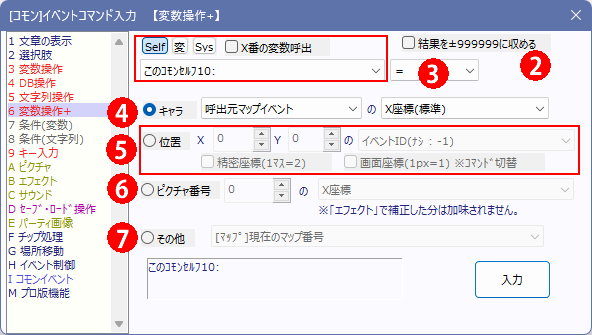
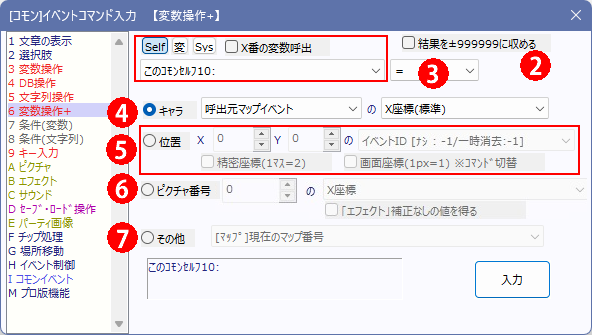
file upload

Changed region(s): [[0.4561, 0.5373, 0.8818, 0.6567], [0.6081, 0.3881, 0.8818, 0.4478], [0.3649, 0.5373, 0.3953, 0.597]]

diff --git a/ReleaseLog.html b/ReleaseLog.html
@@ -304,6 +304,100 @@ A:hover.newstxA,A:active.newstxA{
       <br>
       <br>
       <hr size="1" noshade>
+      <span style="font-size : 120%;"><b>【Ver3.705のアップデート内容】</b></span>　2026/6/5　 <a href="#top" class="green" style="width:200px;">↑トップへ</a><br>
+      <br>
+      <b><span style="font-size : 120%;"><br>
+      【ゲーム部の修正】</span></b><br>
+<br>
+●【F7ピクチャ一覧画面/不具合】<br>
+      　右側のピクチャ表示位置の赤マーカー（エフェクト後の座標）の<br>
+      　表示位置が状況によって正しくなくなっていたバグを修正<br>
+<br>
+●【F7ピクチャ一覧画面/調整】<br>
+・右側のピクチャ表示位置の、「エフェクト前の位置」を薄い青で表示するように<br>
+・右側のピクチャ表示位置のマーカーが回転にも対応<br>
+　（これまでは回転なしの四角でしか表示されていませんでした）<br>
+      　　↓<br>
+      　<b>【最新のF7ピクチャ一覧表示】</b> <span style="font-size : 80%;">（下側のID:5が通常ピクチャですが斜め表示されています。青マーカーは元位置、赤は実位置）</span><br>
+      　<img src="old_releaselog/image/20260605_F7.jpg" border="0"><br>
+      <br>
+      <hr size="1" noshade>
+      <span style="font-size : 120%;"><b>【Ver3.704のアップデート内容】</b></span>　2026/6/5　 <a href="#top" class="green" style="width:200px;">↑トップへ</a><br>
+      <br>
+      <b><span style="font-size : 120%;"><br>
+      【新機能】</span></b><br>
+<br>
+      <b><span style="color : #cc0000;">●【変数操作+/新機能】<br>
+      　「変数操作+」での「ピクチャ」情報取得時、【エフェクトで補正された後】の<br>
+      　「XY座標」や「パターン」「不透明度」「角度」「拡大率」「カラーRGB値」<br>
+      　を得られるようになります。</span></b><br>
+      <br>
+      → ウィンドウ側には<b><span style="color : #cc0000;">【「エフェクト」補正なしの値を得る】</span></b>チェックを追加しました。<br>
+      　今後はデフォルトで「エフェクト補正後の値」を取得するようになります。<br>
+      <br>
+      → これまで入力されたコマンドは全て<b>【「エフェクト」補正なしの値を得る】</b>モードで<br>
+　 値を取得していたものとして扱われます。<br>
+      　 すでに開発済みのゲームに対して挙動の変化は起きませんのでご安心ください。<br>
+      <br>
+      →【従来はどうなっていたのか】<br>
+　 これまで得られていたピクチャの値には「エフェクトの補正」が含まれておらず、<br>
+　「ピクチャ」コマンドで指定した「生の値」だけを得られる状態になっていました。<br>
+      　さすがにそれだと不便でしたので、今回の修正でエフェクト込みの値を標準にしました。<br>
+<br>
+<br>
+      <b><span style="font-size : 120%;"><br>
+      【ゲーム部の修正】</span></b><br>
+<br>
+●【パフォーマンスモニター/不具合】<br>
+　「PerformanceMonitor」機能使用時、特定の処理を行うと<br>
+　クラッシュすることがあったバグを修正<br>
+<br>
+●【F7ピクチャ一覧画面/調整】<br>
+　「表示形式(通常・乗算など)」「ｶﾗｰRPG」「分割」「パターン」の情報を追加。<br>
+　<br>
+●【F7ピクチャ一覧画面/調整】<br>
+　ピクチャ位置を示す赤マーカーボックスに以下の修正を行いました。<br>
+      - 赤マーカーとして「エフェクトを反映した位置」を表示するよう修正。<br>
+ 　（ただし通常ピクチャのほうではマーカーの見た目は「角度」を反映しません。<br>
+      　　自由変形ピクチャは「角度」や各点の座標が反映されます）<br>
+ - 赤マーカーボックス自体の表示位置を微調整。<br>
+<br>
+●【エラー/調整】<br>
+　エラー時の「処理地点」の表記として、「コモンイベント」内の処理に<br>
+　「マップEv」まで付記されて表示されてしまっていたのを消去<br>
+→ 昔の都合で「呼び出し元マップEv」を知るために残していたものでしたが、<br>
+　「処理経路」が詳細に出るようになって不要になりました）<br>
+<br>
+<br>
+      <b><span style="font-size : 120%;"><br>
+      【エディター部の修正】</span></b><br>
+<br>
+●【スタートガイド/不具合】<br>
+      　まだフォントサイズがうまく反映されていなかったバグを修正<br>
+<br>
+●【ピクチャ・変数操作+・イベント制御/調整】<br>
+　「ピクチャ」の「ピクチャ番号、分割数(縦・横)、XY座標、パターン、不透明度、角度」欄、<br>
+　「変数操作+」の「ピクチャ番号」欄、「サウンド」の「途中再生」欄<br>
+　「チップ処理」の「単体チップ設定を変更」のチップ番号欄、<br>
+　「エフェクト」→上コマンド「ピクチャ番号」欄、「画面のスクロール」の「XY」欄など、<br>
+　「イベント制御」の「イベントの一時消去」のフェード値欄、<br>
+　の欄を少し横方向に延長。<br>
+→ 「100％表示」の「Meiryo UI（中）」フォントの「Windows拡大率100％」時において、<br>
+　 横幅を伸ばす余裕がある欄だけ、数値を「7桁」表示できる長さに延長しました。<br>
+<br>
+●【エフェクト/不具合】<br>
+　エフェクトの「ピクチャ/キャラ/マップのエフェクト」以外のコマンドを<br>
+　「編集」したとき、「ピクチャ/キャラ/マップのエフェクト」の数値欄に<br>
+　空の欄ができてしまうバグを修正<br>
+<br>
+●【マップイベント・コモンイベントウィンドウ/不具合】　<br>
+　「クリップボード→イベントコード貼り付け」時、<br>
+　WoditorEvCOMMAND_STARTからWoditorEvCOMMAND_ENDの間に<br>
+　空行や「[」から始まらない行が間にはさまっていたら無視するように修正<br>
+→ 空行によって無のイベントコマンドが入ってしまっていました。<br>
+<br>
+      <br>
+      <hr size="1" noshade>
       <span style="font-size : 120%;"><b>【Ver3.703のアップデート内容】</b></span>　2026/5/27　 <a href="#top" class="green" style="width:200px;">↑トップへ</a><br>
       <br>
       <br>

diff --git a/help/04ev_valuenext.html b/help/04ev_valuenext.html
@@ -191,9 +191,10 @@ size=+1>【変数操作＋】</FONT></B><BR>
 <br>
 <BR>
 <B>６．代入する値 「ピクチャの情報」</B><BR>
-　指定したピクチャ番号の情報を得ます。取得可能な項目は以下の通りです。<BR>
+  　指定したピクチャ番号の情報を得ます。取得可能な項目は以下の通りです。<br>
+  　（なお<b><span style="color : #cc0000;">＊</span></b>が付いているのはエフェクトの影響を受ける可能性があるもので、通常は「エフェクトの補正込み」の値を取得できます[Ver3.704以降]。後述の<b>【「エフェクト」補正なしの値を得る】</b>チェックをオンにすると、エフェクトの影響をオフにして「ピクチャ」コマンド側で指定された情報だけを得られます）<BR>
 <BR>
-<B>　・X座標・Y座標<br>
+<B>　・X座標・Y座標 <span style="color : #cc0000;">＊</span><br>
 　・基準位置[0左/10中央/20右+0上1中2下]</B>　（Ver3.330より）<br>
   　　ピクチャ基準位置の「左上（0）」や「中心（11）」「右上（20）」「右下（22）」といった値を返します。<br>
   　　この値に「÷10」（左右位置）や「％10」（上下位置）をした値を見れば、基準位置が50％ずれてるか100％ずれてるかをすぐに得ることができます。<B><BR>
@@ -202,11 +203,11 @@ size=+1>【変数操作＋】</FONT></B><BR>
 　　※文字列ピクチャの場合、計算の都合で「<b><span style="color : #ff0000;">文字開始座標(左上)からのサイズ</span></b>」を返します。<br>
 　　　もし\mx[-10]や\ax[-10]などで文字開始座標より左や上に文字がある場合、本来より小さいサイズ値が返されます。この例の場合は10小さい値が返されます。<br>
 　・<B>ピクチャの横/縦分割数<BR>
-　・パターン番号<BR>
-　・不透明度<BR>
-　・角度<BR>
-　・拡大率（縦・横）<br>
-　・カラーR/G/B値<br>
+  　・パターン番号 <span style="color : #cc0000;">＊</span><BR>
+  　・不透明度<span style="color : #cc0000;">＊</span><BR>
+  　・角度<span style="color : #cc0000;">＊</span><BR>
+  　・拡大率（縦・横）<span style="color : #cc0000;">＊</span><br>
+  　・カラーR/G/B値<span style="color : #cc0000;">＊</span><br>
 　・表示形式[0:通常 1:加算 2:減算 3:乗算]<br>
 　・スクロールとリンク[ON=1]<br>
 　・設定された処理時間フレーム<br>
@@ -226,21 +227,20 @@ size=+1>【変数操作＋】</FONT></B><BR>
 　　指定IDより前にあるピクチャ番号を返します。なければ同値を返します。<br>
 　<b>・IDの次にあるピクチャ番号[なし:同値]</b><br>
 　　指定IDより次にあるピクチャ番号を返します。なければ同値を返します。<br>
-　<b>・[自由変形時]左/右・上/下・X/Y座標</b><BR>
+  　 <b>・[自由変形時]左/右・上/下・X/Y座標<span style="color : #cc0000;">＊</span></b><BR>
 　　そのピクチャが自由変形で描画されていているならば指定した座標値を返します。ピクチャが存在しない場合は-1、自由変形でない場合は0をかえします。<BR>
 　<B>・[動画時]現在再生位置（ミリ秒）</B><BR>
 　　ピクチャで動画を再生しているときに現在の「再生位置」をミリ秒で返します。ピクチャが存在しない場合は-1。動画でないピクチャが表示されている場合は0を返します。<BR>
 　<B>・[動画時]総再生再生時間（ミリ秒/ogv形式のみ）</B><BR>
 　　ピクチャで動画を再生しているときに「総再生時間」をミリ秒で返します。ogv形式以外では数値が返されない可能性があります。ピクチャが存在しない場合は-1。動画でないピクチャが表示されている場合は0を返します。<BR>
+  <br>
+  ●<b>【「エフェクト」補正なしの値を得る】チェック</b> [Ver3.704以降]<BR>
+  　このチェックをオンにすると、<b><span style="color : #cc0000;">＊</span></b>の付いた項目に対し<b>「エフェクトによる補正なし」</b>の値を得られます。<br>
+  　　<span style="font-size : 80%;">※「</span><b><span style="font-size : 80%;"><a href="04ev_effect.html">エフェクト</a></span></b><span style="font-size : 80%;">」コマンドはピクチャの座標や角度、不透明度、色などを変化させさせます。</span><br>
+  　つまり、オンにすると「ピクチャ」コマンドのみによる内部値を返します。<br>
+  　「ピクチャ」コマンドでどんな指定がされたか、という情報を得たい場合に使ってください。<BR>
 <BR>
-　※ここで取得できるピクチャの情報は、「<A href="04ev_effect.html">エフェクト</A>」による補正を無視した値になりますので、注意してください。<BR>
-<BR>
-<BR>
-　<B>【※　マウスカーソル重なってる？（1＝Yes）の補足説明&nbsp; 2010/04/13】</B> <BR>
-　　この処理は、座標の位置判定を「<B>画面描画更新時</B>」に判定しているので、<BR>
-　　フレームスキップを行っている場合、反映が数フレーム遅れることがあります。<BR>
-　　またその処理の特性上、同フレーム中で処理時間0にして行ったピクチャ移動なども<BR>
-　　反映されませんので、ご利用になる際は、その点をご注意下さい。<BR>
+  <BR>
 <br>
 <BR>
 <BR>

diff --git a/help/04ev_string_specialcode.html b/help/04ev_string_specialcode.html
@@ -313,7 +313,7 @@ EDF</span>
 <p><b id="F0"><span style="font-size : 120%;">【共通の仕様】</span></b></p>
 <p>　●<b><span style="color : #0000ff;">(数値)</span></b>を入力すべき場所に「<b>数値以外の文字</b>」を入力すると、基本的には自動で「<b>0</b>」として認識されます。<br>
 <br>
-　●隠しコード先頭の「<b>&lt;&lt;</b>」や末尾の「<b>&gt;&gt;</b>」が抜けていると、文字列変数に「<b><span style="color : #cc0000;">&lt;&lt;Error&gt;&gt; Missing &quot;&lt;&lt;&quot;</span></b>」や「<b><span style="color : #cc0000;">&lt;&lt;Error&gt;&gt; Missing &quot;&lt;&lt;&quot;</span></b>」が返されます。<br>
+　●隠しコード先頭の「<b>&lt;&lt;</b>」や末尾の「<b>&gt;&gt;</b>」が抜けていると、文字列変数に「<b><span style="color : #cc0000;">&lt;&lt;Error&gt;&gt; Missing &quot;&lt;&lt;&quot;</span></b>」や「<b><span style="color : #cc0000;">&lt;&lt;Error&gt;&gt; Missing &quot;&gt;&gt;&quot;</span></b>」が返されます。<br>
 　　この他にも、パラメータの指定が足りなかった場合は 「<b><span style="color : #cc0000;">&lt;&lt;Error&gt;&gt; Missing ■■</span></b>」が返されます。<br>
 </p>
 <hr>
